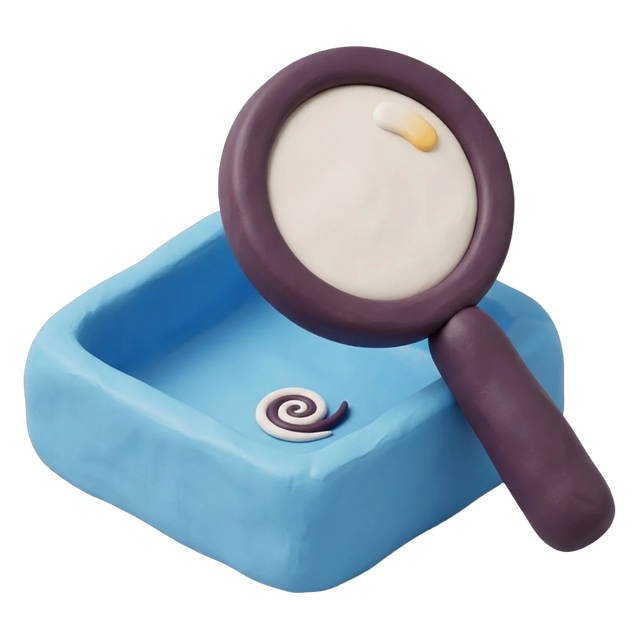
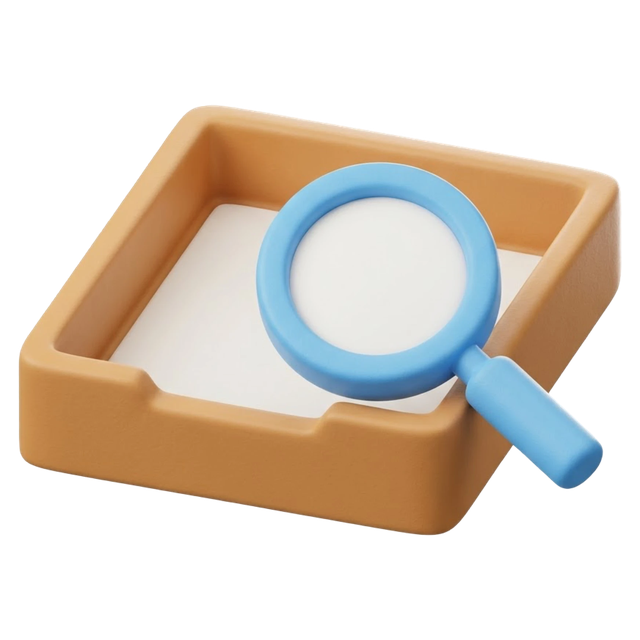
Clay v2: no-results empty in-tray

diff --git a/docs/CLAY-PROMPTS-V2.md b/docs/CLAY-PROMPTS-V2.md
@@ -166,7 +166,15 @@ off-white = paper, neutral parts.
 > Subject: a chunky rounded entry pass on a short lanyard loop, a raised round avatar at its top and a raised check mark below it. Sky blue pass (#6CB8F0), white avatar, a mint check (#7FD8B4), an off-white loop (#F4F1EC).
 
 **no-results** (empty search)
-> Subject: a chunky magnifying glass tilted at an angle; its white lens shows only a raised question mark, no person and nothing else. Sky blue ring and handle (#6CB8F0), white lens, a dark slate question mark.
+> Round 1 (2026-10-30): well made, but a "?" also reads as help/FAQ. User call: show an empty box instead.
+>
+> Round 2: empty reads, but the hinged lid makes it a jewellery / ring box, and the magnifier floats over the lid, not into the box.
+>
+> ✅ Round 4 approved (2026-10-30): desk in-tray, empty, magnifier on the rim. Installed.
+>
+> Round 3: came out round; a round caramel tub reads as a pet bowl. Magnifier still thin.
+>
+> Subject: a wide, shallow, open-top rectangular tray (four straight sides, softly rounded corners, like a desk in-tray), no lid at all, seen from slightly above, clearly empty inside (a plain inner floor), with a chunky magnifying glass (thick ring and handle, as thick as the tray's walls) resting on its front rim, its lens over the empty inside. Caramel box (#E0A76A) with an off-white inner floor (#F4F1EC), a sky blue magnifier ring and handle (#6CB8F0), a white lens. Nothing in the box, nothing in the lens.
 
 **coming-soon** (pages still being built)
 > Subject: a chunky rounded traffic cone with two raised stripes, standing upright on a square base (work in progress). Coral cone (#F06A6F), white stripes, an off-white base (#F4F1EC). No rocket.
